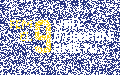
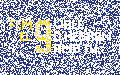
Improve arms position; Scale lego piece;

diff --git a/src/game/scene/index.js b/src/game/scene/index.js
@@ -15,6 +15,7 @@ class Scene extends THREE.Scene {
     this.done = false;
     this.canvasEl = canvas;
     this.background = null;
+    this.gameMode = mode;
 
     this.state = {
       _mode: mode === "touch" || mode === "cover" ? "orbit" : "pointer",
@@ -36,7 +37,7 @@ class Scene extends THREE.Scene {
 
     this.cameras = {
       orbit: new Camera(45, window.innerWidth / window.innerHeight, 1, 4000),
-      pointer: new Camera(56, window.innerWidth / window.innerHeight, 0.1, 400),
+      pointer: new Camera(60, window.innerWidth / window.innerHeight, 0.1, 400),
     };
 
     this.controls = {
@@ -44,19 +45,9 @@ class Scene extends THREE.Scene {
       pointer: new PointerLockControls(this.cameras.pointer, document.body),
     };
 
-    this.controls.pointer.addEventListener("unlock", () => {
-      if (mode === "cover") return;
-      console.log("unlock", this.state.mode, this.state.manualUnlock);
-      this.controls.pointer.deactivate();
-      if (
-        this.state.mode === "pointer" &&
-        !this.done &&
-        !this.state.manualUnlock
-      ) {
-        document.dispatchEvent(new CustomEvent("unlock"));
-      }
-      if (this.state.manualUnlock) this.state.manualUnlock = false;
-    });
+    this.onUnlock = this.onUnlock.bind(this);
+    this.controls.pointer.removeEventListener("unlock", this.onUnlock);
+    this.controls.pointer.addEventListener("unlock", this.onUnlock);
 
     Object.defineProperties(this.state, {
       mode: {
@@ -121,23 +112,15 @@ class Scene extends THREE.Scene {
       this.cameras[mode].rotation.set(...this.state[mode].rotation);
       this.cameras[mode].parentControl = this.controls[mode];
 
+      this.controls[mode].removeEventListener("change", this.onControlChange);
       this.controls[mode].addEventListener("change", this.onControlChange);
+      this.controls[mode].removeEventListener("init", this.onControlInit);
       this.controls[mode].addEventListener("init", this.onControlInit);
     }
 
-    this.controls.pointer.addEventListener("onTatami", (ev) => {
-      if (ev.value) {
-        if (!this.getObjectById(this.legoShadow.id)) {
-          this.add(this.legoShadow);
-          this.add(this.closinesRing);
-        }
-      } else {
-        if (this.getObjectById(this.legoShadow.id)) {
-          this.remove(this.legoShadow);
-          this.remove(this.closinesRing);
-        }
-      }
-    });
+    this.onTatami = this.onTatami.bind(this);
+    this.controls.pointer.removeEventListener("onTatami", this.onTatami);
+    this.controls.pointer.addEventListener("onTatami", this.onTatami);
 
     this.lights = new Lights();
     this.add(this.lights);
@@ -225,11 +208,11 @@ class Scene extends THREE.Scene {
     ) {
       this.control.object.centerOn(this.geojsonLayers.campus);
     }
-    this.control.dispatchEvent({ type: "change" });
+    setTimeout(() => this.control.dispatchEvent({ type: "change" }), 100);
   }
 
   onControlChange(ev) {
-    if (this.done) return;
+    if (this.done || !this.control.enabled) return;
 
     if (this.state.mode === "pointer") this.updatePositions();
 
@@ -252,33 +235,33 @@ class Scene extends THREE.Scene {
       const reordered = rotation.reorder("ZYX");
       const pitch = reordered.x;
       this.legoPiece.position.set(
-        position.x + 2.4 * direction.x,
-        position.y + 2.4 * direction.y,
-        position.z - 1.25 - 2 * Math.cos(pitch)
-      );
-      this.armRight.position.set(
         position.x + 2 * direction.x,
         position.y + 2 * direction.y,
-        position.z - 1.25 - 2 * Math.cos(pitch)
+        position.z - 1.5 - 2 * Math.cos(pitch) * 0.5
+      );
+      this.armRight.position.set(
+        position.x + 1.5 * direction.x,
+        position.y + 1.5 * direction.y,
+        position.z - 1.2 - 2 * Math.cos(pitch) * 0.5
       );
       this.armRight.position.x += Math.cos(rotation.z) * 0.7;
       this.armRight.position.y += Math.sin(rotation.z) * 0.7;
       this.armLeft.position.set(
-        position.x + 2 * direction.x,
-        position.y + 2 * direction.y,
-        position.z - 1.25 - 2 * Math.cos(pitch)
+        position.x + 1.5 * direction.x,
+        position.y + 1.5 * direction.y,
+        position.z - 1.2 - 2 * Math.cos(pitch) * 0.5
       );
       this.armLeft.position.x -= Math.cos(rotation.z) * 0.7;
       this.armLeft.position.y -= Math.sin(rotation.z) * 0.7;
       this.legoPiece.rotation.copy(rotation);
       this.armRight.rotation.set(
-        -rotation.x + Math.PI * 0.3,
+        -rotation.x + Math.PI * 0.8,
         -rotation.y,
         rotation.z + Math.PI,
         "ZYX"
       );
       this.armLeft.rotation.set(
-        -rotation.x + Math.PI * 0.3,
+        -rotation.x + Math.PI * 0.8,
         -rotation.y,
         rotation.z + Math.PI,
         "ZYX"
@@ -349,6 +332,34 @@ class Scene extends THREE.Scene {
   onResize() {
     this.$emit("bbox:update", { bbox: this.bbox });
     this.controls.orbit.update();
+  }
+
+  onUnlock() {
+    if (this.gameMode === "cover") return;
+    console.log("unlock", this.state.mode, this.state.manualUnlock);
+    this.controls.pointer.deactivate();
+    if (
+      this.state.mode === "pointer" &&
+      !this.done &&
+      !this.state.manualUnlock
+    ) {
+      document.dispatchEvent(new CustomEvent("unlock"));
+    }
+    if (this.state.manualUnlock) this.state.manualUnlock = false;
+  }
+
+  onTatami(ev) {
+    if (ev.value) {
+      if (!this.getObjectById(this.legoShadow.id)) {
+        this.add(this.legoShadow);
+        this.add(this.closinesRing);
+      }
+    } else {
+      if (this.getObjectById(this.legoShadow.id)) {
+        this.remove(this.legoShadow);
+        this.remove(this.closinesRing);
+      }
+    }
   }
 
   initPosition() {

diff --git a/src/game/index.js b/src/game/index.js
@@ -94,8 +94,8 @@ export default class Game {
 
   onKeyDown(ev) {
     if (this.scene.control.enabled === false || this.mode === "cover") return;
-    console.log("keydown", ev.code);
     if (ev.code === "KeyM") {
+      console.log("keydown M");
       if (this.scene.state.mode === "pointer") {
         this.scene.state.mode = "orbit";
         this.scene.state.manualUnlock = true;
@@ -200,14 +200,22 @@ export default class Game {
         this.scene.initPosition();
         if (this.mode !== "pointer") this.scene.camera.centerOn(campus);
         const canvas = document.getElementById("canvas");
-        this.scene.state.scale =
-          canvas.clientWidth < canvas.clientHeight
-            ? canvas.clientWidth / canvas.clientHeight
-            : canvas.clientHeight / canvas.clientWidth;
+
+        if (canvas.clientWidth < canvas.clientHeight) {
+          this.scene.state.scale = Math.min(
+            1,
+            (campus.yScale(1) - campus.yScale(0)) / 1
+          );
+        } else {
+          this.scene.state.scale = Math.min(
+            1,
+            (campus.xScale(1) - campus.xScale(0)) / 1
+          );
+        }
 
         if (this.scene.legoPiece) {
-          const args = Array.apply(null, Array(3)).map((d) =>
-            Math.sqrt(this.scene.state.scale)
+          const args = Array.apply(null, Array(3)).map(
+            (d) => this.scene.state.scale
           );
           this.scene.legoPiece.scale.set(...args);
           this.scene.legoShadow.scale.set(...args);
@@ -251,7 +259,9 @@ export default class Game {
         const piece = gltf.scene;
         gltfLoader.load("/static/gltf/arm.gltf", (gltf) => {
           const armRight = gltf.scene;
-          armRight.scale.set(1.5, 1.5, 1.5);
+          armRight.rotation.reorder("ZYX");
+          armRight.rotation.x = Math.PI * 0.3;
+          armRight.scale.set(1.3, 1.3, 1.3);
           piece.position.fromArray(this.scene.camera.position.toArray());
           piece.position.z = 1;
           piece.rotation.x = Math.PI * 0.5;
@@ -279,6 +289,7 @@ export default class Game {
             if (child.type === "Mesh") {
               child.material = new THREE.MeshToonMaterial({
                 color: "rgb(240, 200, 160)",
+                side: THREE.DoubleSide,
               });
             }
           });

diff --git a/src/game/scene/Controls.js b/src/game/scene/Controls.js
@@ -109,7 +109,7 @@ export class PointerLockControls extends THREE.PointerLockControls {
       canJump: {
         get: () => {
           return (
-            this.getObject().position.z <= (this.state.isOnTatami ? 2.5 : 2)
+            this.getObject().position.z <= (this.state.isOnTatami ? 3 : 2.5)
           );
         },
         set: () => {
@@ -287,7 +287,7 @@ export class PointerLockControls extends THREE.PointerLockControls {
         this.moveRight(-this.velocity.x * delta);
         this.moveForward(-this.velocity.y * delta);
         this.getObject().position.z = Math.max(
-          this.state.isOnTatami ? 2.5 : 2,
+          this.state.isOnTatami ? 3 : 2.5,
           this.getObject().position.z + this.velocity.z * delta
         );
 

diff --git a/src/game/layers/Piece.js b/src/game/layers/Piece.js
@@ -1,0 +1,23 @@
+import Layer from "../geojson2three/components/Layer.js";
+
+function Piece(settings) {
+  settings = settings || {};
+  settings.color = 0x0000ff;
+  settings.name = "piece";
+  settings.z = "alt";
+  settings.base = 0;
+
+  Layer.call(this, settings);
+}
+
+Piece.prototype = Object.create(Layer.prototype);
+
+Piece.prototype.load = function (piece_id) {
+  return fetch("/data/piece.geojson", {
+    method: "GET",
+  }).then((res) => {
+    return res.json().then(this.parse);
+  });
+};
+
+export default Piece;

diff --git a/src/game/layers/Grass.js b/src/game/layers/Grass.js
@@ -3,7 +3,7 @@ import Layer from "../geojson2three/components/Layer.js";
 function Grass(settings) {
   settings = settings || {};
   settings.color = 0xa3cdb9;
-  settings.z = 0.5;
+  settings.z = 0.3;
   settings.name = "grass";
 
   Layer.call(this, settings);
